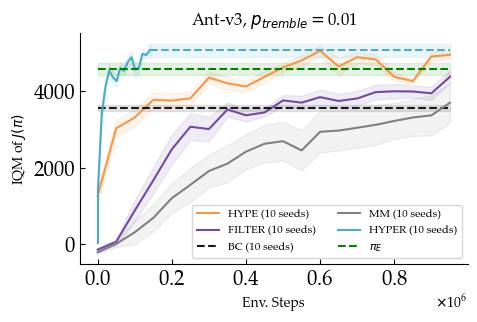
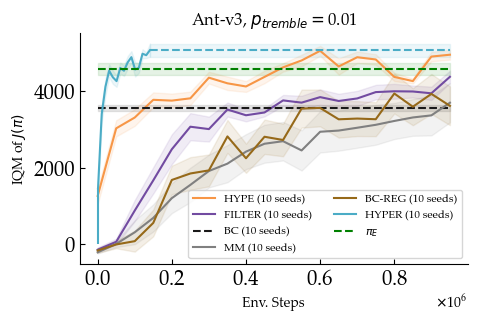
Add wandb logging compatability, fix bc_reg sampling, update plots with new bc_reg runs.

diff --git a/garage/utils/replay_buffer.py b/garage/utils/replay_buffer.py
@@ -169,7 +169,10 @@ class HybridReplayBuffer(ReplayBuffer):
         return ratio
 
     def _get_samples(
-        self, batch_inds: np.ndarray, env: Optional[VecNormalize] = None
+        self,
+        batch_inds: np.ndarray,
+        env: Optional[VecNormalize] = None,
+        sample_expert_only=False,
     ) -> ReplayBufferSamples:
         num_samples = len(batch_inds)
         if self.hybrid_sampling:
@@ -236,7 +239,6 @@ class HybridReplayBuffer(ReplayBuffer):
                     ),
                     axis=0,
                 )
-
             data = (
                 obs,
                 actions,
@@ -245,7 +247,38 @@ class HybridReplayBuffer(ReplayBuffer):
                 self._normalize_reward(rewards.reshape(-1, 1), env),
             )
             return ReplayBufferSamples(*tuple(map(self.to_torch, data)))
+
+        elif sample_expert_only:
+            # Sample only from expert buffer
+            env_indices = np.random.randint(
+                0, high=self.n_envs, size=(len(batch_inds),)
+            )
+            if self.optimize_memory_usage:
+                next_obs = self._normalize_obs(
+                    self.expert_states[
+                        (batch_inds + 1) % self.buffer_size, env_indices, :
+                    ],
+                    env,
+                )
+            else:
+                next_obs = self._normalize_obs(
+                    self.expert_next_states[batch_inds, env_indices, :], env
+                )
+            data = (
+                self._normalize_obs(
+                    self.expert_states[batch_inds, env_indices, :], env
+                ),
+                self.expert_actions[batch_inds, env_indices, :],
+                next_obs,
+                (self.expert_dones[batch_inds, env_indices]).reshape(-1, 1),
+                self._normalize_reward(
+                    self.expert_rewards[batch_inds, env_indices].reshape(-1, 1), env
+                ),
+            )
+            return ReplayBufferSamples(*tuple(map(self.to_torch, data)))
+
         else:
+            # Sample only from learner buffer
             env_indices = np.random.randint(
                 0, high=self.n_envs, size=(len(batch_inds),)
             )
@@ -271,6 +304,31 @@ class HybridReplayBuffer(ReplayBuffer):
                 ),
             )
             return ReplayBufferSamples(*tuple(map(self.to_torch, data)))
+
+    def sample_expert_only(self, batch_size, env):
+        """
+        Sample only a batch from the expert dataset. Can be used
+        downstream in BC regularization.
+        Custom sampling when using memory efficient variant,
+        as we should not sample the element with index `self.pos`
+        See https://github.com/DLR-RM/stable-baselines3/pull/28#issuecomment-637559274
+
+        :param batch_size: (int) Number of element to sample
+        :param env: (Optional[VecNormalize]) associated gym VecEnv
+            to normalize the observations/rewards when sampling
+        :return: (Union[RolloutBufferSamples, ReplayBufferSamples])
+        """
+        if not self.optimize_memory_usage:
+            return super().sample(batch_size=batch_size, env=env)
+        # Do not sample the element with index `self.pos` as the transitions is invalid
+        # (we use only one array to store `obs` and `next_obs`)
+        if self.full:
+            batch_inds = (
+                np.random.randint(1, self.buffer_size, size=batch_size) + self.pos
+            ) % self.buffer_size
+        else:
+            batch_inds = np.random.randint(0, self.pos, size=batch_size)
+        return self._get_samples(batch_inds, env=env, sample_expert_only=True)
 
     def normalize_expert_obs(self, obs: np.ndarray) -> np.ndarray:
         def compute_mean_std(states: np.ndarray, eps: float):

diff --git a/garage/utils/logger.py b/garage/utils/logger.py
@@ -5,10 +5,14 @@
 import collections
 import csv
 import pathlib
+import uuid
+from datetime import datetime
 from typing import Counter, Dict, List, Mapping, Tuple, Union
 
 import termcolor
 import torch
+import wandb
+from omegaconf import OmegaConf
 
 LogFormatType = List[Tuple[str, str, str]]
 LogTypes = Union[int, float, torch.Tensor]
@@ -98,15 +102,27 @@ class Logger(object):
 
     Args:
         log_dir (str or pathlib.Path): the directory where to save the logs.
-        enable_back_compatible (bool, optional): if ``True``, this logger can be used in the
-            methods in the `pytorch_sac` library. Defaults to ``False``.
+        cfg (dict): the configuration dictionary. It will be saved to the wandb run if provided.
     """
 
-    def __init__(self, log_dir: Union[str, pathlib.Path]):
+    def __init__(
+        self,
+        log_dir: Union[str, pathlib.Path],
+        cfg: Dict,
+    ):
         self._log_dir = pathlib.Path(log_dir)
         self._log_dir.mkdir(parents=True, exist_ok=True)
         self._groups: Dict[str, Tuple[MetersGroup, int, str]] = {}
         self._group_steps: Counter[str] = collections.Counter()
+        self.wandb_log = cfg.wandb_log
+        if cfg.wandb_log:
+            wandb.init(
+                project="garage",
+                group=f"{cfg.algorithm.name}_{cfg.overrides.env}",
+                name=f"seed_{cfg.seed}_{datetime.now().strftime('%Y-%m-%d_%H-%M-%S')}",
+                id=f"{str(uuid.uuid4())[-5:]}",
+                config=OmegaConf.to_container(cfg),
+            )
 
     def register_group(
         self,
@@ -160,6 +176,8 @@ class Logger(object):
             if isinstance(value, torch.Tensor):
                 value = value.item()  # type: ignore
             meter_group.log(key, value)
+            if self.wandb_log:
+                wandb.log({key: value})
         self._group_steps[group_name] += 1
         if self._group_steps[group_name] % dump_frequency == 0:
             self._dump(group_name)

diff --git a/garage/models/sac.py b/garage/models/sac.py
@@ -3,6 +3,7 @@ Subclass of SB3 SAC agent (https://github.com/hill-a/stable-baselines/blob/maste
 
 This reimplementation allows for relabelling and dual-buffer sampling. Changes are marked with "BEGIN CHANGES" and "END CHANGES".
 """
+
 import torch as th
 from stable_baselines3 import SAC as SB3_SAC
 from stable_baselines3.common.utils import polyak_update
@@ -93,8 +94,8 @@ class SAC(SB3_SAC):
                 # td error + entropy term
 
                 # ----------- BEGIN CHANGES ------------
-                # Relabel with current reward function. 
-                # See description here under bullet point 1 here: 
+                # Relabel with current reward function.
+                # See description here under bullet point 1 here:
                 # https://github.com/jren03/garage/tree/main/garage/algorithms#model-free-inverse-reinforcement-learning
                 if self.relabel_rewards:
                     # Get the negative of reward from the discriminator (since we use cost)
@@ -145,9 +146,13 @@ class SAC(SB3_SAC):
 
             # ----------- BEGIN CHANGES ------------
             if self.bc_reg:
+                expert_data = self.replay_buffer.sample_expert_only(
+                    batch_size, env=self._vec_normalize_env
+                )
+                actions_bc, _ = self.actor.action_log_prob(expert_data.observations)
                 actor_loss = (
                     ent_coef * log_prob - min_qf_pi
-                ).mean() + self.bc_weight * F.mse_loss(actions_pi, replay_data.actions)
+                ).mean() + self.bc_weight * F.mse_loss(actions_bc, expert_data.actions)
             else:
                 actor_loss = (ent_coef * log_prob - min_qf_pi).mean()
             # ----------- END CHANGES ------------

diff --git a/garage/algorithms/model_free_irl.py b/garage/algorithms/model_free_irl.py
@@ -132,7 +132,7 @@ def train(cfg: omegaconf.DictConfig, demos_dict: Dict[str, Any]) -> None:
 
     # --------------- Logging ---------------
     work_dir = os.getcwd()
-    logger = Logger(work_dir)
+    logger = Logger(work_dir, cfg)
     log_name = f"{cfg.algorithm.name}_{env_name}"
     logger.register_group(
         log_name,
